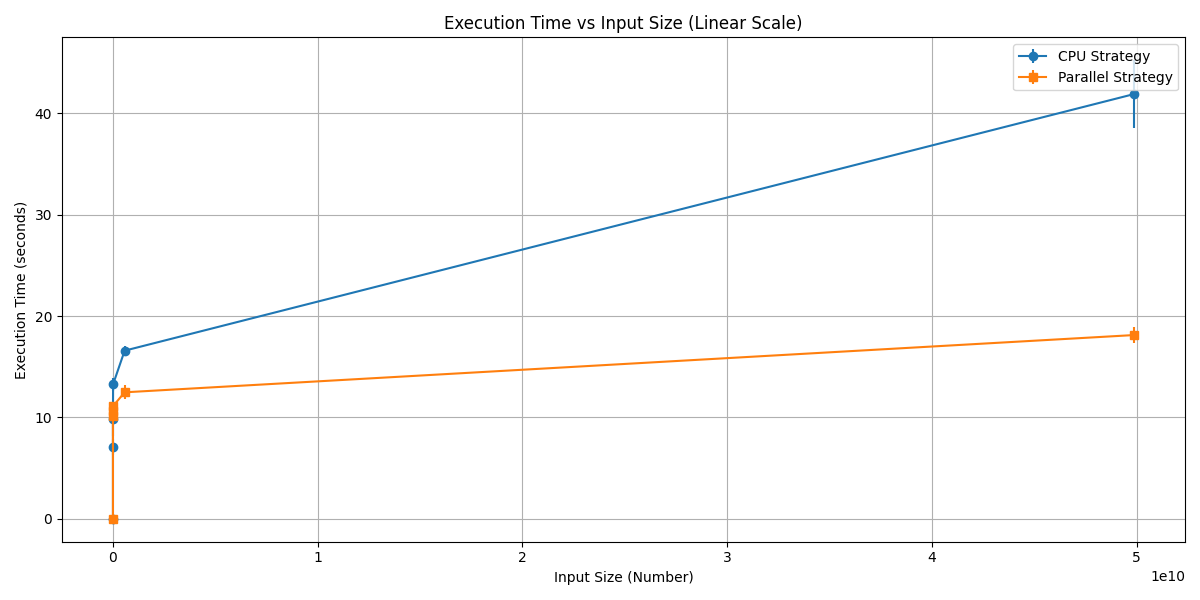
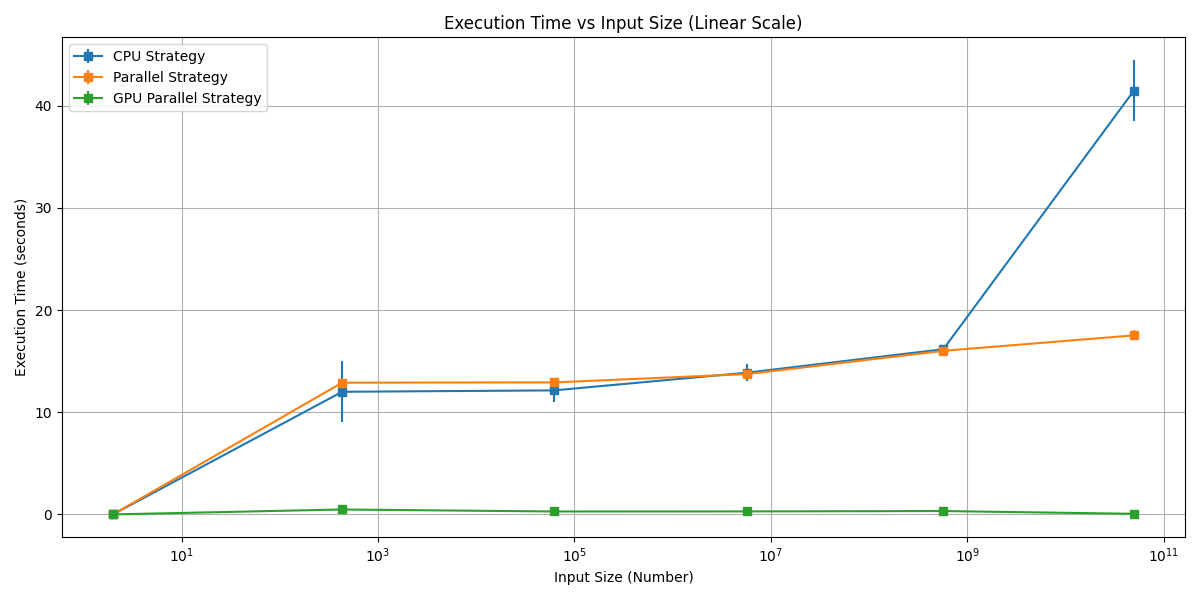
benchmarks

diff --git a/benchmark.py b/benchmark.py
@@ -53,8 +53,9 @@ class Benchmark:
         results = {
             "cpu": {},
             "parallel": {},
-            "input_sizes": {},
-            "gpu_sizes": {}
+            "gpu": {},
+            "input_sizes": {}
+
         }
 
         print()
@@ -252,7 +253,7 @@ class Benchmark:
 
         plt.figure(figsize=(12, 6))
 
-        plt.plot(iterations, cpu_times, label="CPU Strategy", marker='o')
+        plt.plot(iterations, cpu_times, label="CPU Strategy", marker='S')
         plt.plot(iterations, parallel_times, label="Parallel Strategy", marker='s')
         plt.plot(iterations, gpu_times, label="GPU Parallel Strategy", marker='s')
 
@@ -280,14 +281,14 @@ def main():
     ]
 
     range_data = benchmark.generate_range_data(num_ranges=ranges, numbers_per_range=2)
-    range_results = benchmark.run_benchmarks(test_data=range_data, iterations=10000000)
-    benchmark.generate_bar_chart(range_results)
+    # range_results = benchmark.run_benchmarks(test_data=range_data, iterations=10000000)
+    # benchmark.generate_bar_chart(range_results)
 
-    results = benchmark.generate_increasing_data(max_digits=12, step=2, samples_per_step=3, iterations=10000000)
+    results = benchmark.generate_increasing_data(max_digits=11, step=2, samples_per_step=3, iterations=10000000)
     benchmark.generate_line_chart(results)
 
-    iteration_results = benchmark.generate_iterations_test(test_range=ranges[2], start_iterations=1000, end_iterations=100000000, samples_per_step=3)
-    benchmark.generate_iterations_chart(iteration_results)
+    # iteration_results = benchmark.generate_iterations_test(test_range=ranges[2], start_iterations=1000, end_iterations=100000000, samples_per_step=3)
+    # benchmark.generate_iterations_chart(iteration_results)
 
 
 if __name__ == "__main__":
